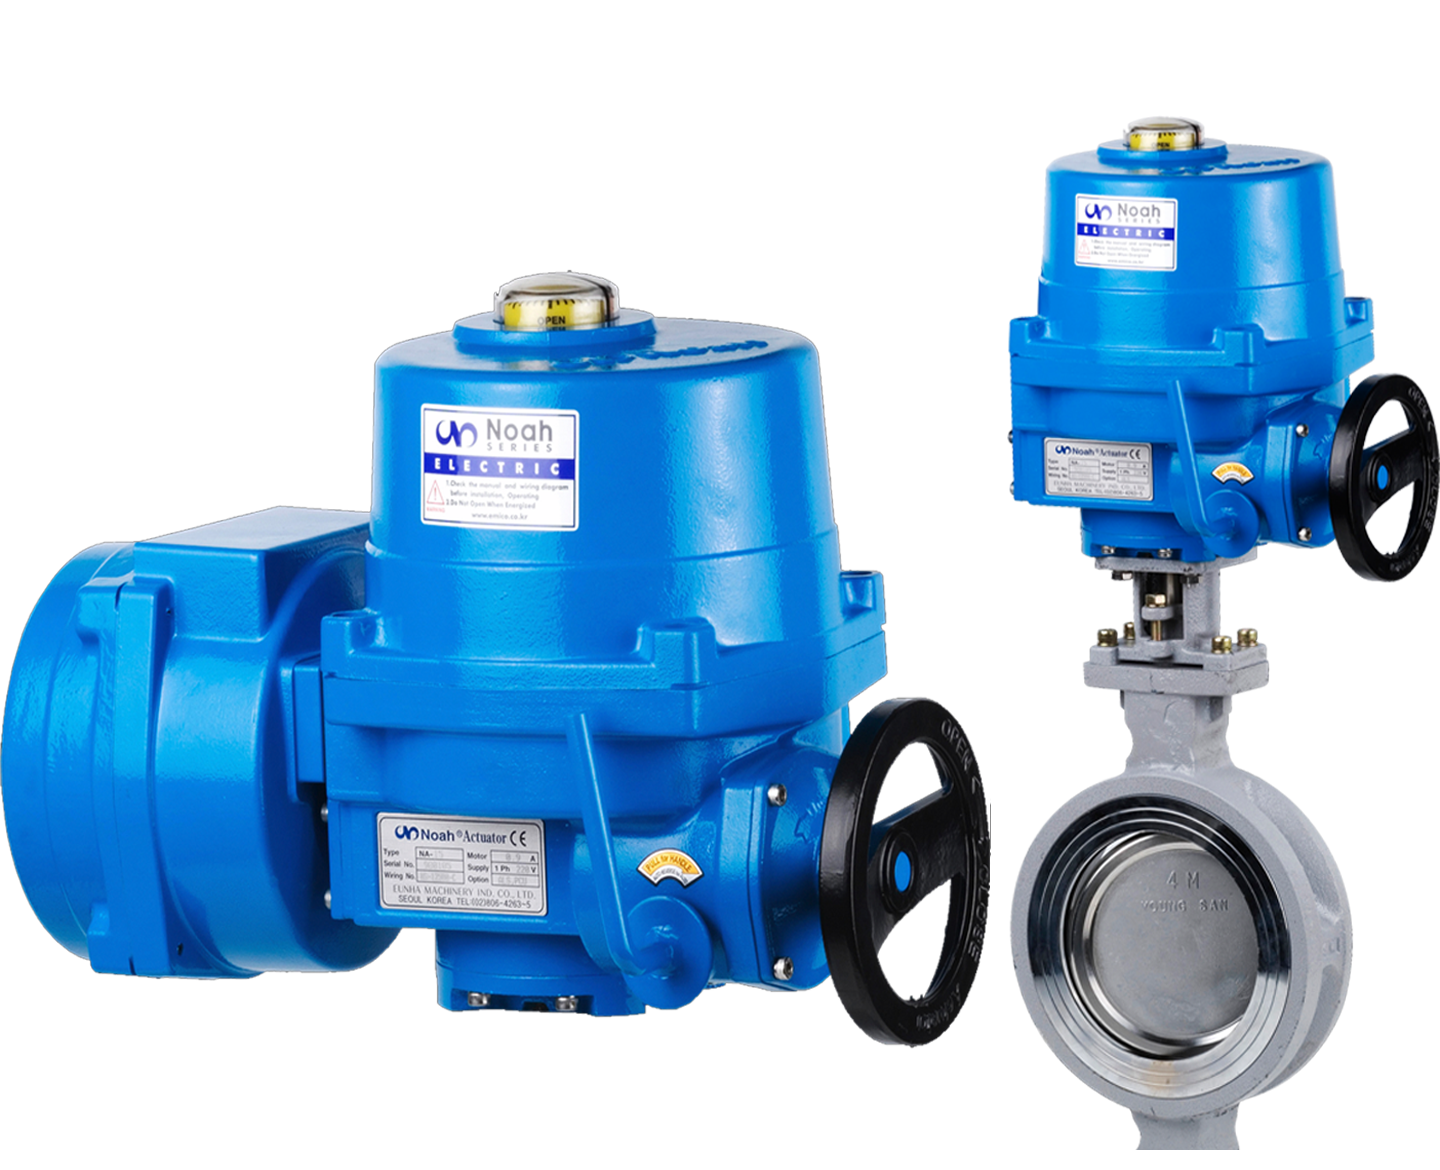
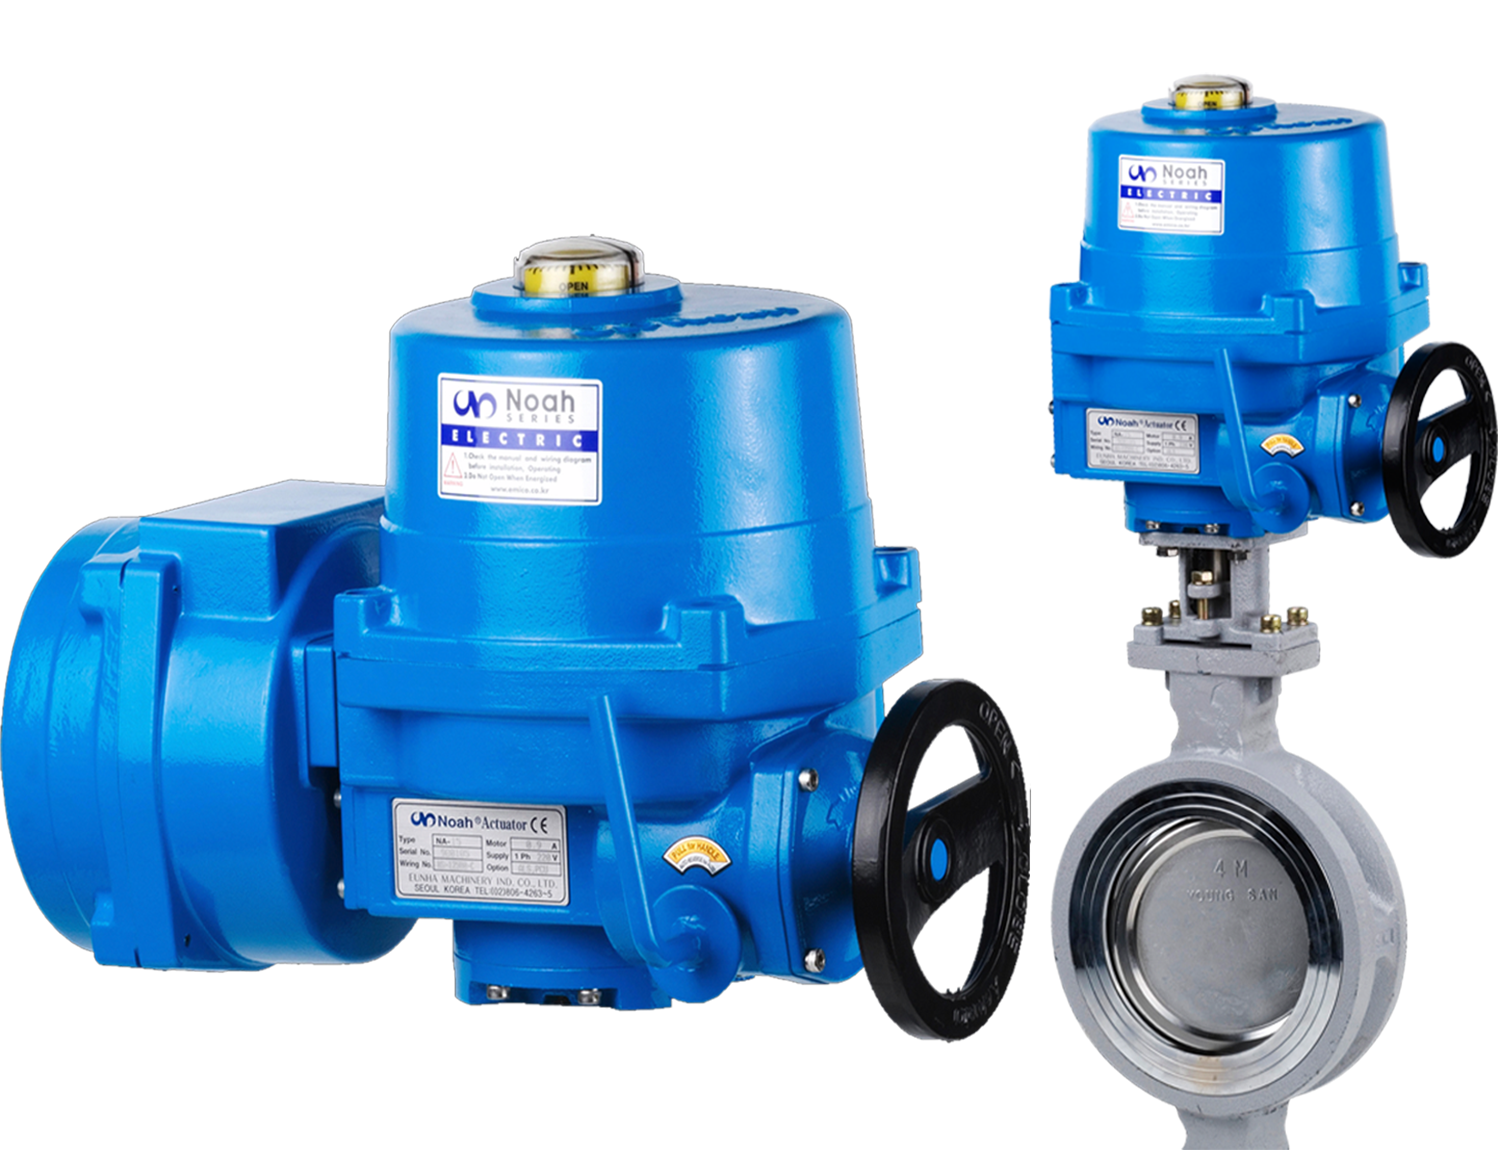
edited product description

Changed region(s): [[0.0, 0.0615, 1.0, 0.9538]]

diff --git a/_pages/products.html b/_pages/products.html
@@ -19,7 +19,13 @@ layout: pages
           <header>
             <h3>SA Series</h3>
           </header>
-          <p>Small to large size quarter-turn actuators designed for a variety of applications.</p>
+          <p>SA series actuators are suitable to be located in small spaces with a range of 30Nm torque and designed for butterfly valve, ball valve, damper and automation of rotary machines.</p>
+          <ul>
+            <li>SA003 Type</li>
+            <li>SA005/SA009 Type</li>
+            <li>SA EXP Type</li>
+            <li>SA Built-in Battery Type</li>
+          </ul>
           <a href="" class="button download">Download Brochure</a>
           <a href="" class="button special-alt">Download Manual</a>
         </section>
@@ -32,7 +38,13 @@ layout: pages
           <header>
             <h3>NA Series</h3>
           </header>
-          <p>Small and large size linear actuators best fit for a variety of applications. </p>
+          <p>NA series electric actuators are suitable for quater-turn applications - designed for valves, dampers and automation of rotary machines and produce torque range of 60Nm to 3000Nm.</p>
+          <ul>
+            <li>NA On/Off Type</li>
+            <li>NA Modulating Type</li>
+            <li>NA Integral Type</li>
+            <li>NA Built-in Battery Type</li>
+          </ul>
           <a href="" class="button download">Download Brochure</a>
           <a href="" class="button special-alt">Download Manual</a>
 
@@ -49,7 +61,7 @@ layout: pages
           <header>
             <h3>SR Series</h3>
           </header>
-          <p>Spring-return actuators with fail-close/fail-open operation designed for emergency situations.</p>
+          <p>SR series, spring return actuators is operated in the Fail Open/Fail Close position in emergency situations with torque range of 50/100/200/300Nm.</p>
           <a href="" class="button download">Download Brochure</a>
           <a href="" class="button special-alt">Download Manual</a>
         </section>
@@ -62,7 +74,7 @@ layout: pages
           <header>
             <h3>MA Series</h3>
           </header>
-          <p>Newest addition to the product line is the multi-turn actuator series with electronic torque sensors.</p>
+          <p>MA series, multi-turn actuators have electronic torque sensors that can work with a remote control with torque range of 1kg/m to 180kg/m. Also suitable for gate valves.</p>
           <a href="" class="button download">Download Brochure</a>
           <a href="" class="button special-alt">Download Manual</a>
         </section>
@@ -76,9 +88,9 @@ layout: pages
         <section>
           <a href="#" class="image featured products"><img src="/images/products/nlseries.png" alt="" /></a>
           <header>
-            <h3>NL Series</h3>
+            <h3>Linear Series</h3>
           </header>
-          <p>Small to large size quarter-turn actuators designed for a variety of applications.</p>
+          <p>SL & NL series are linear actuators that offer best fit for variety of applications and can be integrated with sophisticated control application providing precise position feedback and accurate control. Also suitable for globe valves ranging from 15A to 150A. Thrust range from 4KN to 25KN and available in both DC and AC voltage.</p>
           <a href="" class="button download">Download Brochure</a>
           <a href="" class="button special-alt">Download Manual</a>
         </section>
@@ -91,7 +103,7 @@ layout: pages
           <header>
             <h3>Pneumatic Series</h3>
           </header>
-          <p>Pneumatic actuators come in two varieties, Scotch Yoke Type and Rack & Pinion Type.</p>
+          <p>Pneumatic actuators come in two varieties, Scotch Yoke Type and Rack & Pinion Type. Limit switch box, EP positioner, solenoid valve, air filter regulator should be installed with pneumatic actuators and applied to butterfly valves, ball valves, dampers, and/or rotary machines. Available in NOD, NOS series | RD, RS Series.</p>
           <a href="" class="button download">Download Brochure</a>
           <a href="" class="button special-alt">Download Manual</a>
         </section>

diff --git a/_site/products.html b/_site/products.html
@@ -61,7 +61,13 @@
           <header>
             <h3>SA Series</h3>
           </header>
-          <p>Small to large size quarter-turn actuators designed for a variety of applications.</p>
+          <p>SA series actuators are suitable to be located in small spaces with a range of 30Nm torque and designed for butterfly valve, ball valve, damper and automation of rotary machines.</p>
+          <ul>
+            <li>SA003 Type</li>
+            <li>SA005/SA009 Type</li>
+            <li>SA EXP Type</li>
+            <li>SA Built-in Battery Type</li>
+          </ul>
           <a href="" class="button download">Download Brochure</a>
           <a href="" class="button special-alt">Download Manual</a>
         </section>
@@ -74,7 +80,13 @@
           <header>
             <h3>NA Series</h3>
           </header>
-          <p>Small and large size linear actuators best fit for a variety of applications. </p>
+          <p>NA series electric actuators are suitable for quater-turn applications - designed for valves, dampers and automation of rotary machines and produce torque range of 60Nm to 3000Nm.</p>
+          <ul>
+            <li>NA On/Off Type</li>
+            <li>NA Modulating Type</li>
+            <li>NA Integral Type</li>
+            <li>NA Built-in Battery Type</li>
+          </ul>
           <a href="" class="button download">Download Brochure</a>
           <a href="" class="button special-alt">Download Manual</a>
 
@@ -91,7 +103,7 @@
           <header>
             <h3>SR Series</h3>
           </header>
-          <p>Spring-return actuators with fail-close/fail-open operation designed for emergency situations.</p>
+          <p>SR series, spring return actuators is operated in the Fail Open/Fail Close position in emergency situations with torque range of 50/100/200/300Nm.</p>
           <a href="" class="button download">Download Brochure</a>
           <a href="" class="button special-alt">Download Manual</a>
         </section>
@@ -104,7 +116,7 @@
           <header>
             <h3>MA Series</h3>
           </header>
-          <p>Newest addition to the product line is the multi-turn actuator series with electronic torque sensors.</p>
+          <p>MA series, multi-turn actuators have electronic torque sensors that can work with a remote control with torque range of 1kg/m to 180kg/m. Also suitable for gate valves.</p>
           <a href="" class="button download">Download Brochure</a>
           <a href="" class="button special-alt">Download Manual</a>
         </section>
@@ -118,9 +130,9 @@
         <section>
           <a href="#" class="image featured products"><img src="/images/products/nlseries.png" alt="" /></a>
           <header>
-            <h3>NL Series</h3>
+            <h3>Linear Series</h3>
           </header>
-          <p>Small to large size quarter-turn actuators designed for a variety of applications.</p>
+          <p>SL & NL series are linear actuators that offer best fit for variety of applications and can be integrated with sophisticated control application providing precise position feedback and accurate control. Also suitable for globe valves ranging from 15A to 150A. Thrust range from 4KN to 25KN and available in both DC and AC voltage.</p>
           <a href="" class="button download">Download Brochure</a>
           <a href="" class="button special-alt">Download Manual</a>
         </section>
@@ -133,7 +145,7 @@
           <header>
             <h3>Pneumatic Series</h3>
           </header>
-          <p>Pneumatic actuators come in two varieties, Scotch Yoke Type and Rack & Pinion Type.</p>
+          <p>Pneumatic actuators come in two varieties, Scotch Yoke Type and Rack & Pinion Type. Limit switch box, EP positioner, solenoid valve, air filter regulator should be installed with pneumatic actuators and applied to butterfly valves, ball valves, dampers, and/or rotary machines. Available in NOD, NOS series | RD, RS Series.</p>
           <a href="" class="button download">Download Brochure</a>
           <a href="" class="button special-alt">Download Manual</a>
         </section>

diff --git a/_site/assets/css/main.css b/_site/assets/css/main.css
@@ -1811,7 +1811,7 @@
 
 		.image.featured.products img{
 			min-height: 200px;
-			max-height: 250px;
+			max-height: 450px;
 		}
 
 			.image.featured img {

diff --git a/assets/css/main.css b/assets/css/main.css
@@ -1811,7 +1811,7 @@
 
 		.image.featured.products img{
 			min-height: 200px;
-			max-height: 250px;
+			max-height: 450px;
 		}
 
 			.image.featured img {
